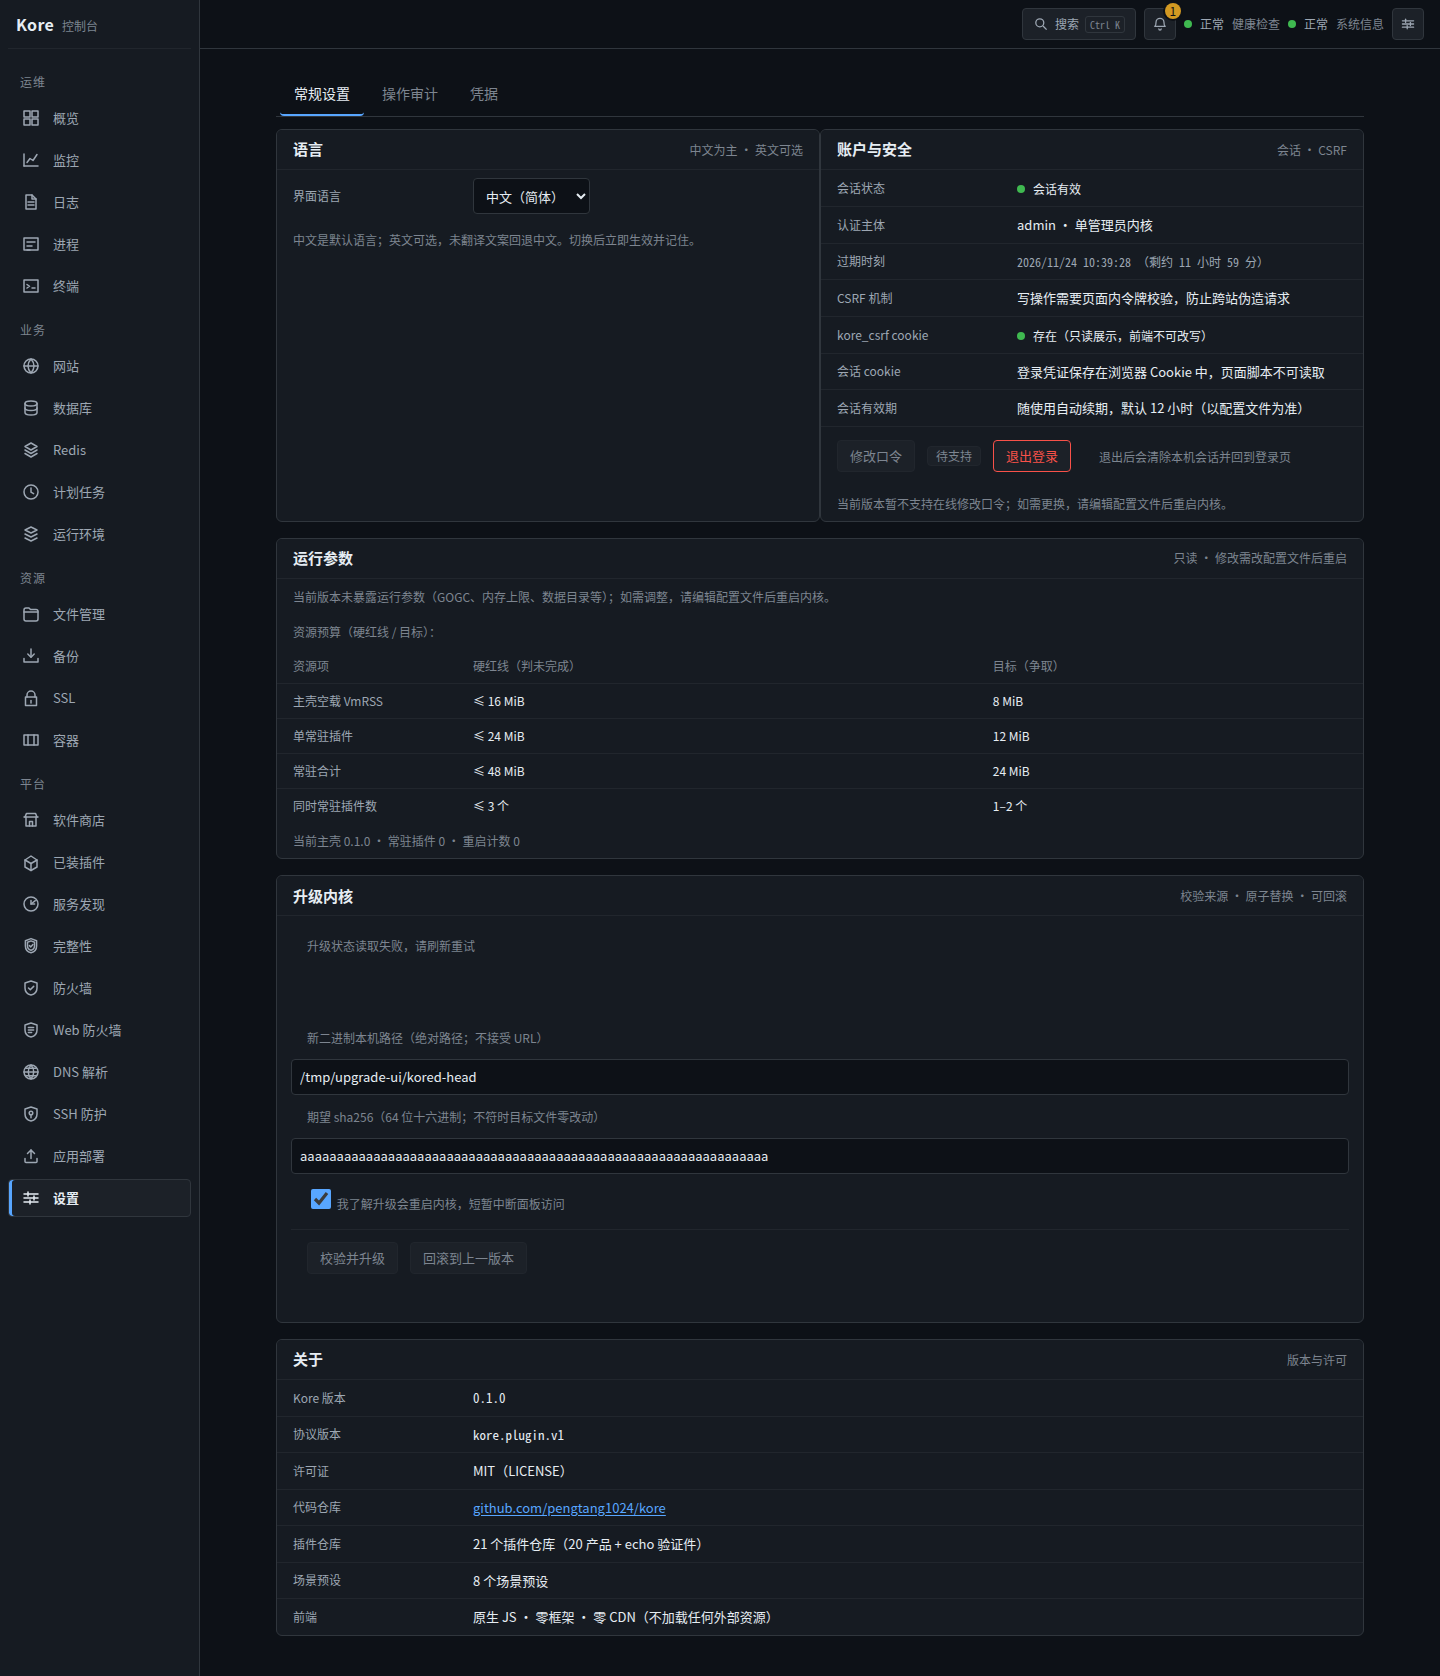
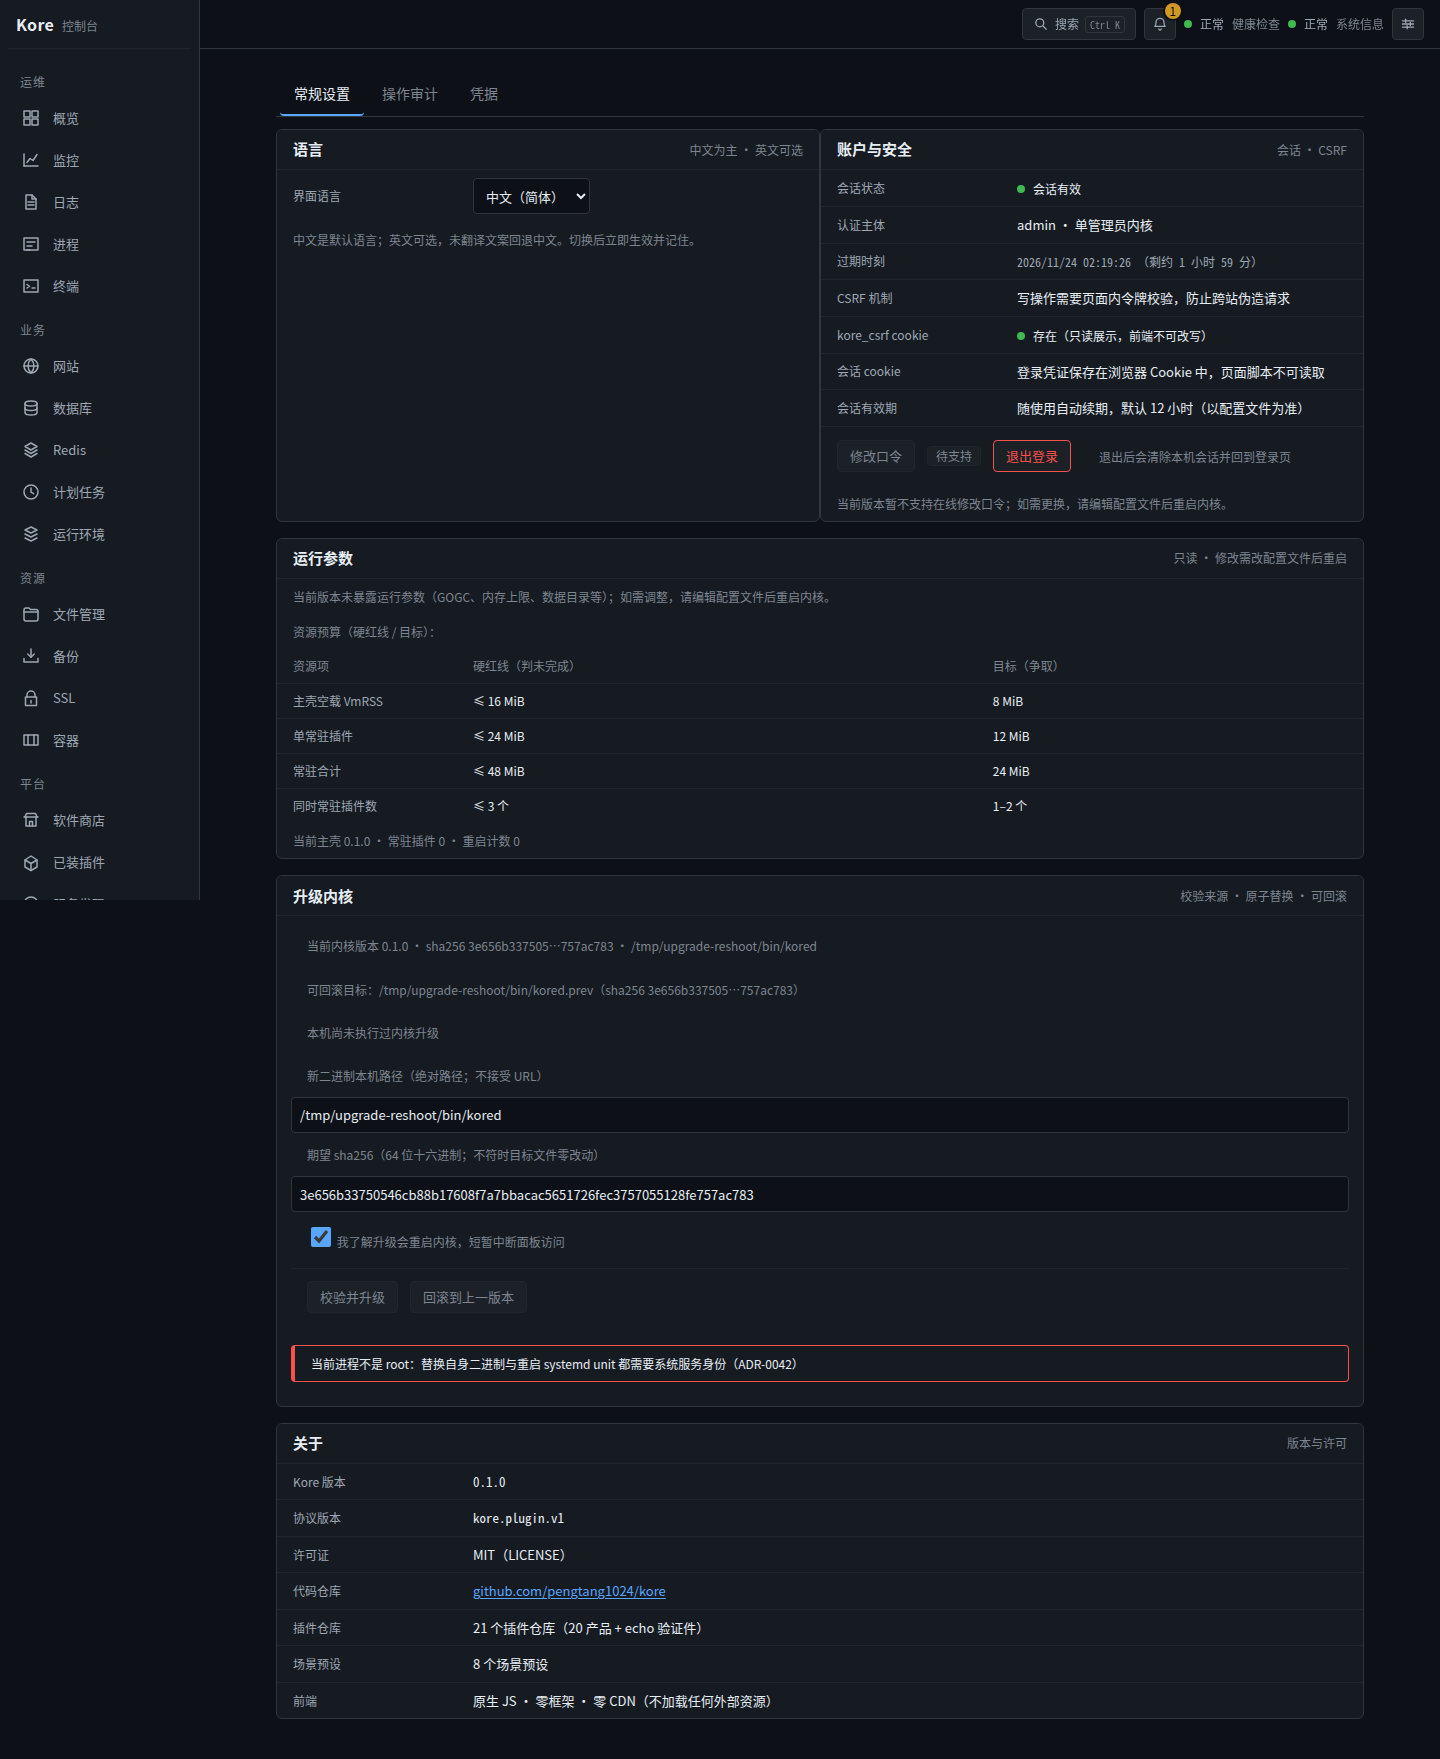
[agent:upgrade-card-reshoot] docs(verify): 升级内核卡片重拍双端截图（装配修复后 200/可回滚/E_NEED_ROOT）

diff --git a/.agents/verify/upgrade-card-reshoot.md b/.agents/verify/upgrade-card-reshoot.md
@@ -1,0 +1,104 @@
+# 升级内核卡片 · G-28 双端重拍（装配修复后）
+
+> 元信息: 2026-11-24T00:19+08:00 · 执行者 `upgrade-card-reshoot` 子 agent · 隔离实例 `127.0.0.1:18987`（config/state/run/log 全在 `/tmp/upgrade-reshoot`）· 构建自带 `db7cf31` / `a68c4b1` 的提交 · 主实例 8787 **零写入**
+>
+> 结论：**①②③ 全部达成，① 为首次达成**。上次（`db36288`）`GET /api/v1/system/upgrade` = **501**「当前装配不支持内核自升级」；本次同端点 = **200**，卡片直接渲染当前版本/sha、可回滚目标与 `can_upgrade=false` 的可操作原因。③ 拿到真实服务端 `E_NEED_ROOT`（403）。未改任何代码。
+
+## 1. 环境
+
+| 项 | 值 |
+| --- | --- |
+| 监听 | `127.0.0.1:18987`（`ss -ltn` 先确认空闲；未碰 8787） |
+| 配置 | `/tmp/upgrade-reshoot/config.yaml`（独立 `--config`） |
+| 状态 / 运行 / 日志 | `/tmp/upgrade-reshoot/{state,run,log}`（全落 `/tmp`） |
+| 索引 | **只读**指向 `/home/pt/Work/GolandProjects/kore-plugins/index` |
+| 二进制来源 | `git archive 179daaa` → 在 `/tmp` 副本内 `make build`（`web/dist/` 被 `.gitignore`、archive 本体不含嵌入资产，故按 Makefile 的 `web-dist` 规则在副本内重建 dist 后编译；未读共享工作树代码） |
[1 lines of base64/hex data omitted]
+| 修复链校验 | `git merge-base --is-ancestor db7cf31 179daaa` = yes；`a68c4b1` = yes |
+| 进程身份 | **uid 1000 非 root**（沙箱限制，见 §8） |
+| 截图工具链 | `~/.cache/ms-playwright/chromium-1248/chrome-linux64/chrome`（**显式 executablePath**，Chrome for Testing 156.0.8078.4）+ 裸 CDP（Node 24 内置 WebSocket） |
+| 主实例声明 | 8787 仅做只读 `GET /-/healthz`（`{"status":"ok"}`），**未改** `.kore-local.yaml` / state / `bin/kored`，未重启 |
+
+## 2. 复现要点
+
+```bash
+git archive 179daaa | tar -x -C /tmp/upgrade-reshoot/src
+cd /tmp/upgrade-reshoot/src && make build BIN=/tmp/upgrade-reshoot/bin/kored
+cp bin/kored bin/kored.prev                    # 造「可回滚目标」供 ① 展示
+/tmp/upgrade-reshoot/bin/kored serve --config /tmp/upgrade-reshoot/config.yaml &
+# 登录（独立口令，仅 /tmp 0600，未入库）：POST /api/v1/auth/login → cookie + kore_csrf
+chrome --headless=new --remote-debugging-port=9411 --user-data-dir=/tmp/upgrade-reshoot/prof
+node /tmp/upgrade-reshoot/cdp-shot.mjs 9411 18987 …  # 登录→?r=…#/settings→三场景双端
+```
+
+## 3. 真实 API 返回（UI 数据来源）
+
+`GET /api/v1/system/upgrade`（带会话 cookie）→ **HTTP 200**：
+
+```json
+{
+  "current": {
+    "path": "/tmp/upgrade-reshoot/bin/kored",
[1 lines of base64/hex data omitted]
+  },
+  "previous": {
+    "path": "/tmp/upgrade-reshoot/bin/kored.prev",
[1 lines of base64/hex data omitted]
+  },
+  "can_upgrade": false,
+  "can_rollback": false,
+  "reason": "当前进程不是 root：替换自身二进制与重启 systemd unit 都需要系统服务身份（ADR-0042）"
+}
+```
+
+`POST /api/v1/system/upgrade`（`confirm=true` + 合法 bin/sha + `X-Kore-CSRF`）→ **HTTP 403**：
+
+```json
+{"code":"E_NEED_ROOT","message":"当前进程不是 root，无法自升级","detail":"需要 root 运行身份：当前 euid=1000；请以系统服务（root）运行内核后再从面板升级"}
+```
+
+## 4. 截图清单（`file` 实测宽高）
+
+| 文件 | 实测 | 内容 |
+| --- | --- | --- |
+| `screenshots/upgrade-card-initial-desktop.png` | **1440 × 1759** | ① 初始态：`当前内核版本 0.1.0 · sha256 3e656b337505…757ac783` + 可回滚目标 + 非 root 原因（PC full-page） |
+| `screenshots/upgrade-card-initial-mobile.png` | **390 × 844** | 同场景手机视口（卡片滚入视口） |
+| `screenshots/upgrade-card-confirm-desktop.png` | **1440 × 1759** | ② 确认态：路径 + 64 位 sha + 已勾选「我了解升级会重启内核」 |
+| `screenshots/upgrade-card-confirm-mobile.png` | **390 × 844** | 同场景手机视口 |
+| `screenshots/upgrade-card-error-desktop.png` | **1440 × 1759** | ③ 结果态：真实 403 → `E_NEED_ROOT：当前进程不是 root，无法自升级`（红框） |
+| `screenshots/upgrade-card-error-mobile.png` | **390 × 844** | 同场景手机视口 |
+
+6 张均为本次（00:19）新拍，非旧图缩放或复用；桌面 full-page（`Page.getLayoutMetrics.cssContentSize`），手机固定 390×844 视口。
+
+## 5. 三场景结论
+
+| # | 要求 | 结论 | 证据 |
+| --- | --- | --- | --- |
+| ① | 当前版本/sha、可回滚目标、`can_upgrade` 原因 | **达成（首次）** | 卡片三点齐全（§4 首行 + §3 JSON）；上次同位置是「升级状态读取失败」+ 501 |
+| ② | 填路径 + 期望 sha + 勾选确认 | **达成** | DOM 落值 `checked=true`、path=`/tmp/upgrade-reshoot/bin/kored`、sha=64 位；两按钮按 `can_upgrade=false` 保持禁用（产品行为） |
+| ③ | 至少一种真实服务端反馈 | **达成** | 真实 POST → 403 `E_NEED_ROOT`，卡片渲染 `E_NEED_ROOT：当前进程不是 root，无法自升级` |
+
+③ 方法说明：非 root 下「校验并升级」按钮按状态禁用，这是产品降级行为；为让真实服务端反馈落到卡片，用 CDP **仅把按钮 `disabled` 置 false 后点击**（不改代码、不 mock 响应），请求与渲染都走真实链路。
+
+## 6. 产品定位自评三问（G-28 ③）
+
+**① 本页解决什么用户问题？**
+把「升级内核二进制」从 SSH + `kored upgrade --bin … --sha256 …` 搬进面板：运维不用进城、不用记命令；核心是**可控**——只认本机绝对路径（不下载 URL）、sha256 先校验后替换（不符零改动）、失败可 `.prev` 回滚、动作 fail-closed 进审计。装配修复后，连最基础的「我现在跑的是哪个版本 / 能不能升级 / 能不能回滚」也能在页面读到了。
+
+**② 与宝塔、1Panel 的同类功能差距？**
+宝塔/1Panel 走「面板内一键更新官方源」：省事但把信任交给官方源，不给期望 sha、通常不提供一键回滚到任意上一版。Kore 是「受控运维动作」路线，适合离线/内网/自签场景。差距仍在：① 无内置下载与签名源，二进制要用户先传上去；② 只有 `.prev` 一档，没有升级前快照/自动回滚；③ 进度只有 job 文案，没有阶段进度条；④ 非 root 环境整体不可用（这是设计，不是缺陷，但会劝退单机试用者）。
+
+**③ 当前「可用」还是「占位」？**
+**条件可用（root 下可执行；非 root 为显式降级，不再是占位）**。读路径（版本/sha/回滚目标/原因）与写路径（表单 → 二次确认 → job → 错误码渲染）都已接通并有真实服务端行为；但真实替换、重启、回滚在本机（uid 1000）跑不了，故只能声明「接线可用」，不能声明「升级链路已在真机验证」。
+
+## 7. 边界与未达成项
+
+- 三场景**全部达成**，无未达成项；未用旧图凑（见 §4 时间戳与尺寸）。
+- **未覆盖**：真实替换 → 重启 → `pending→success` → `.prev` 回滚（需 root + systemd）；`E_UPGRADE_CHECKSUM`/`E_UPGRADE_SOURCE` 等其它错误码未在 UI 复测。这些不属本次三场景，但不得据此宣称「升级链路可用」。
+- 快照里的「可回滚目标」是预放的 `<bin>.prev`（同 sha 副本），用于验证字段显示；`can_rollback=false` 因非 root，符合实现（root && previous != nil）。
+
+## 8. 清理与门禁
+
+- 隔离实例 `kored`（pid 2166268）与 Chromium 已 kill；`ss -ltn` 复核 18987/9411 已释放；`/tmp/upgrade-reshoot` 整目录删除（配置、口令、state、profile、截图源均不残留）。
+- 主实例 8787 `/-/healthz` → `200`；本轮未写主实例运行态配置。
+- 未改任何代码 / 测试 / 门禁脚本；改动仅 6 张截图 + 本文件。
